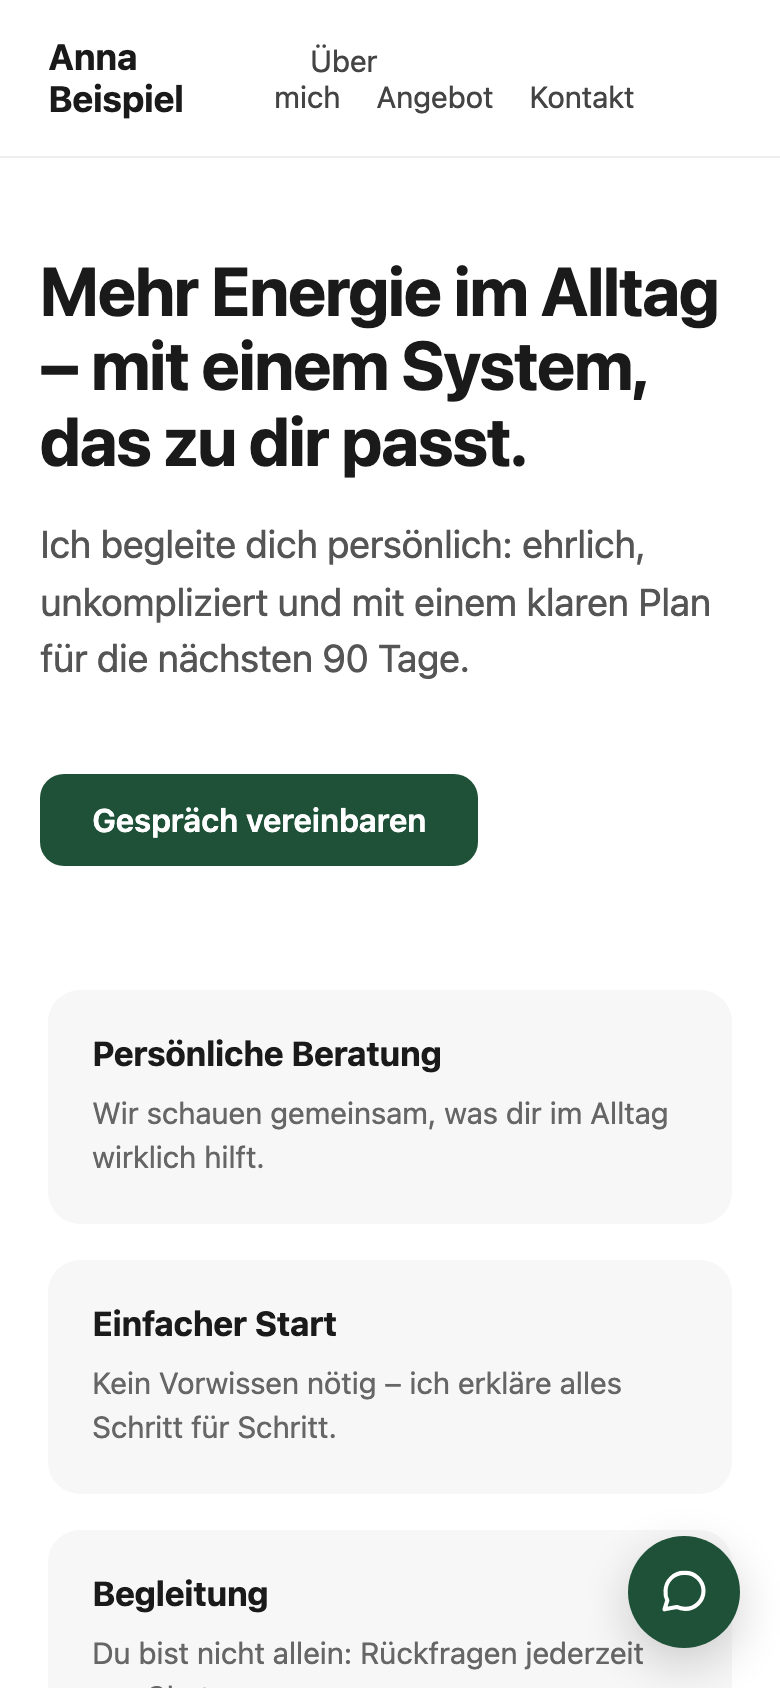
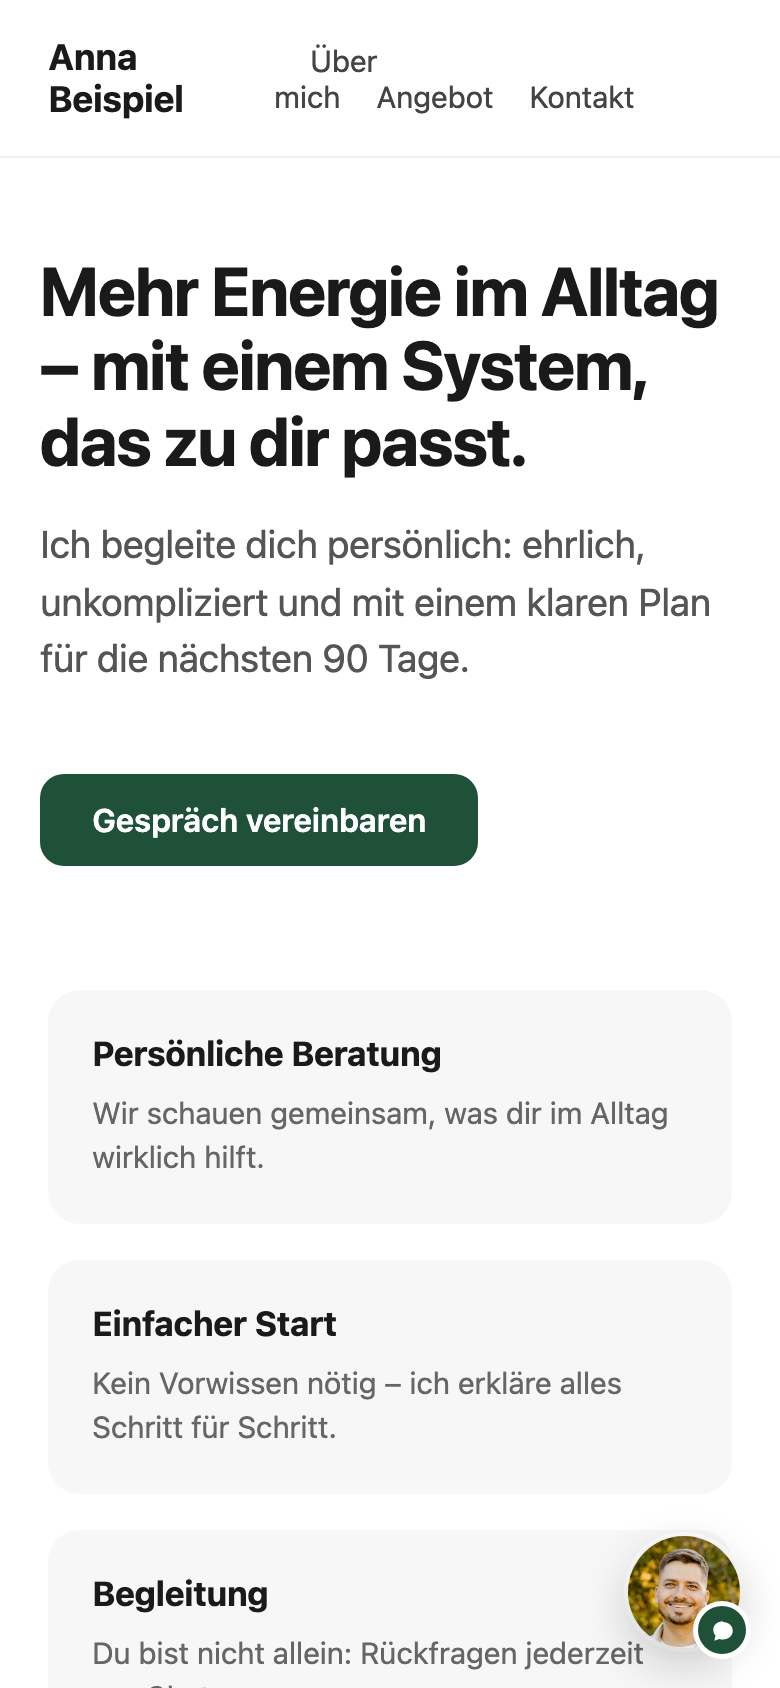
feat(chat): Starter = Profilbild mit Chat-Punkt in der Seitenfarbe (ohne Bild: Initialen)

Changed region(s): [[0.8, 0.8934, 0.9538, 0.9858]]

diff --git a/public/chat-widget/v1.js b/public/chat-widget/v1.js
@@ -177,6 +177,7 @@
   // ── Symbole ────────────────────────────────────────────────────────────────
   var ICON = {
     chat: '<svg viewBox="0 0 24 24" width="26" height="26" fill="none" stroke="currentColor" stroke-width="1.9" stroke-linecap="round" stroke-linejoin="round" aria-hidden="true"><path d="M21 11.5a8.4 8.4 0 0 1-8.5 8.3 9 9 0 0 1-3.9-.9L3 20l1.3-4.1A8 8 0 0 1 3.5 11.5 8.4 8.4 0 0 1 12 3.2a8.4 8.4 0 0 1 9 8.3z"/></svg>',
+    chatf: '<svg viewBox="0 0 24 24" width="13" height="13" fill="currentColor" aria-hidden="true"><path d="M12 3C6.9 3 3 6.5 3 11c0 2 .8 3.8 2.1 5.2L4 21l4.6-1.7c1 .3 2.2.5 3.4.5 5.1 0 9-3.5 9-8s-3.9-8-9-8z"/></svg>',
     close: '<svg viewBox="0 0 24 24" width="20" height="20" fill="none" stroke="currentColor" stroke-width="2" stroke-linecap="round" aria-hidden="true"><path d="M6 6l12 12M18 6L6 18"/></svg>',
     down: '<svg viewBox="0 0 24 24" width="22" height="22" fill="none" stroke="currentColor" stroke-width="2" stroke-linecap="round" stroke-linejoin="round" aria-hidden="true"><path d="M6 9l6 6 6-6"/></svg>',
     send: '<svg viewBox="0 0 24 24" width="20" height="20" fill="none" stroke="currentColor" stroke-width="2.4" stroke-linecap="round" stroke-linejoin="round" aria-hidden="true"><path d="M12 19V5M5.5 11.5L12 5l6.5 6.5"/></svg>',
@@ -194,6 +195,7 @@
     '*,*::before,*::after{box-sizing:border-box}button,input,textarea{font:inherit;color:inherit}button{cursor:pointer;background:none;border:0;padding:0;margin:0}a{color:inherit}' +
     'button:focus-visible,a:focus-visible,summary:focus-visible{outline:2px solid var(--b);outline-offset:2px}' +
     '.fab{position:fixed;right:max(20px,env(safe-area-inset-right));bottom:max(20px,env(safe-area-inset-bottom));width:56px;height:56px;border-radius:50%;background:var(--b);color:var(--bt);display:flex;align-items:center;justify-content:center;box-shadow:0 8px 24px rgba(0,0,0,.18);opacity:0;transform:scale(.8);transition:transform .3s cubic-bezier(.2,.8,.3,1),opacity .3s,box-shadow .2s}' +
+    '.fab.photo{background:#fff;color:#111;box-shadow:0 8px 24px rgba(0,0,0,.2),0 0 0 2px #fff}.fab.photo.open{background:var(--b);color:var(--bt)}.fab .c0{position:relative;width:100%;height:100%;align-items:center;justify-content:center}.fab .ph{width:100%;height:100%;border-radius:50%;object-fit:cover;display:block}.fab .bd{position:absolute;right:-3px;bottom:-3px;width:24px;height:24px;border-radius:50%;background:var(--b);color:var(--bt);display:flex;align-items:center;justify-content:center;box-shadow:0 0 0 2.5px #fff}.fab .bd svg{width:13px;height:13px}.fab .in{font-weight:600;font-size:17px;letter-spacing:.02em}' +
     '.fab.in{opacity:1;transform:scale(1)}.fab:hover{box-shadow:0 10px 28px rgba(0,0,0,.22)}.fab:active{transform:scale(.96)}.fab:focus-visible{outline-offset:3px}' +
     '.fab .i{display:flex;transition:transform .25s,opacity .2s}.fab.open .i.c0{transform:rotate(90deg) scale(.4);opacity:0;position:absolute}.fab .i.c1{position:absolute;transform:rotate(-90deg) scale(.4);opacity:0}.fab.open .i.c1{transform:none;opacity:1;position:static}' +
     '.badge{position:absolute;top:-2px;right:-2px;min-width:20px;height:20px;padding:0 5px;border-radius:10px;background:#E5484D;color:#fff;font-size:11px;font-weight:700;line-height:20px;text-align:center;border:2px solid #fff;display:none}.badge.on{display:block}' +
@@ -255,8 +257,9 @@
     var avatar = owner.avatarUrl ? '<img src="' + esc(owner.avatarUrl) + '" alt="">' : esc(initials(owner.name));
     var wrap = document.createElement('div');
     wrap.innerHTML =
-      '<button type="button" class="fab" aria-label="' + t.open + '" aria-expanded="false" aria-haspopup="dialog" aria-controls="win">' +
-        '<span class="i c0">' + ICON.chat + '</span><span class="i c1">' + ICON.down + '</span>' +
+      '<button type="button" class="fab' + (owner.avatarUrl ? ' photo' : '') + '" aria-label="' + t.open + '" aria-expanded="false" aria-haspopup="dialog" aria-controls="win">' +
+        // Starter: Profilbild + kleiner Chat-Punkt in der Seitenfarbe; ohne Bild Initialen auf der Seitenfarbe
+        '<span class="i c0">' + (owner.avatarUrl ? '<img class="ph" src="' + esc(owner.avatarUrl) + '" alt=""><span class="bd">' + ICON.chatf + '</span>' : '<span class="in">' + esc(initials(owner.name)) + '</span>') + '</span><span class="i c1">' + ICON.down + '</span>' +
         '<span class="badge" aria-hidden="true"></span><span class="sr" id="sr"></span></button>' +
       '<section class="win" id="win" role="dialog" aria-modal="true" aria-label="Chat" tabindex="-1">' +
         '<div class="hd"><div class="av">' + avatar + '</div><div class="who"><div class="nm">' + esc(owner.name || 'Chat') + '</div>' +
